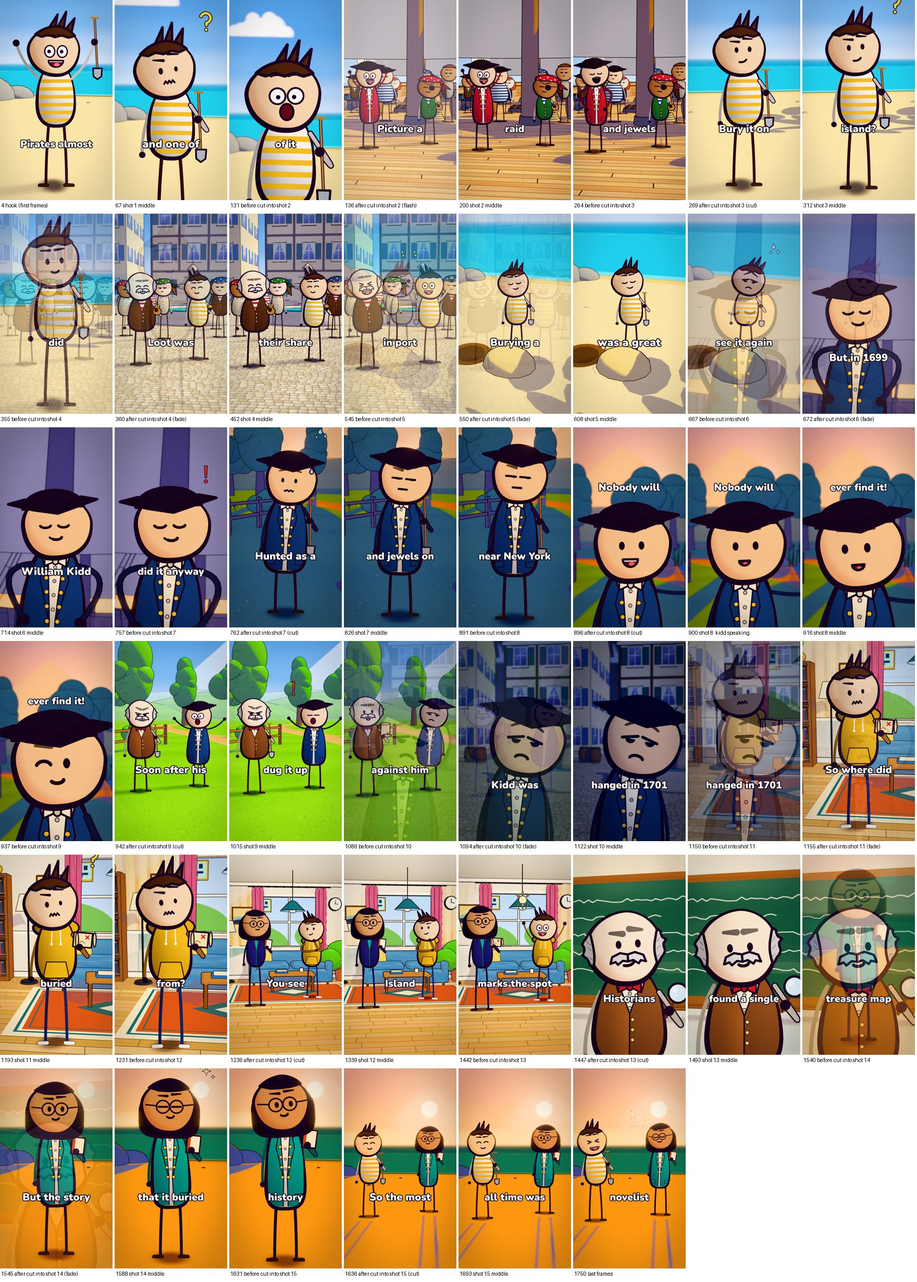
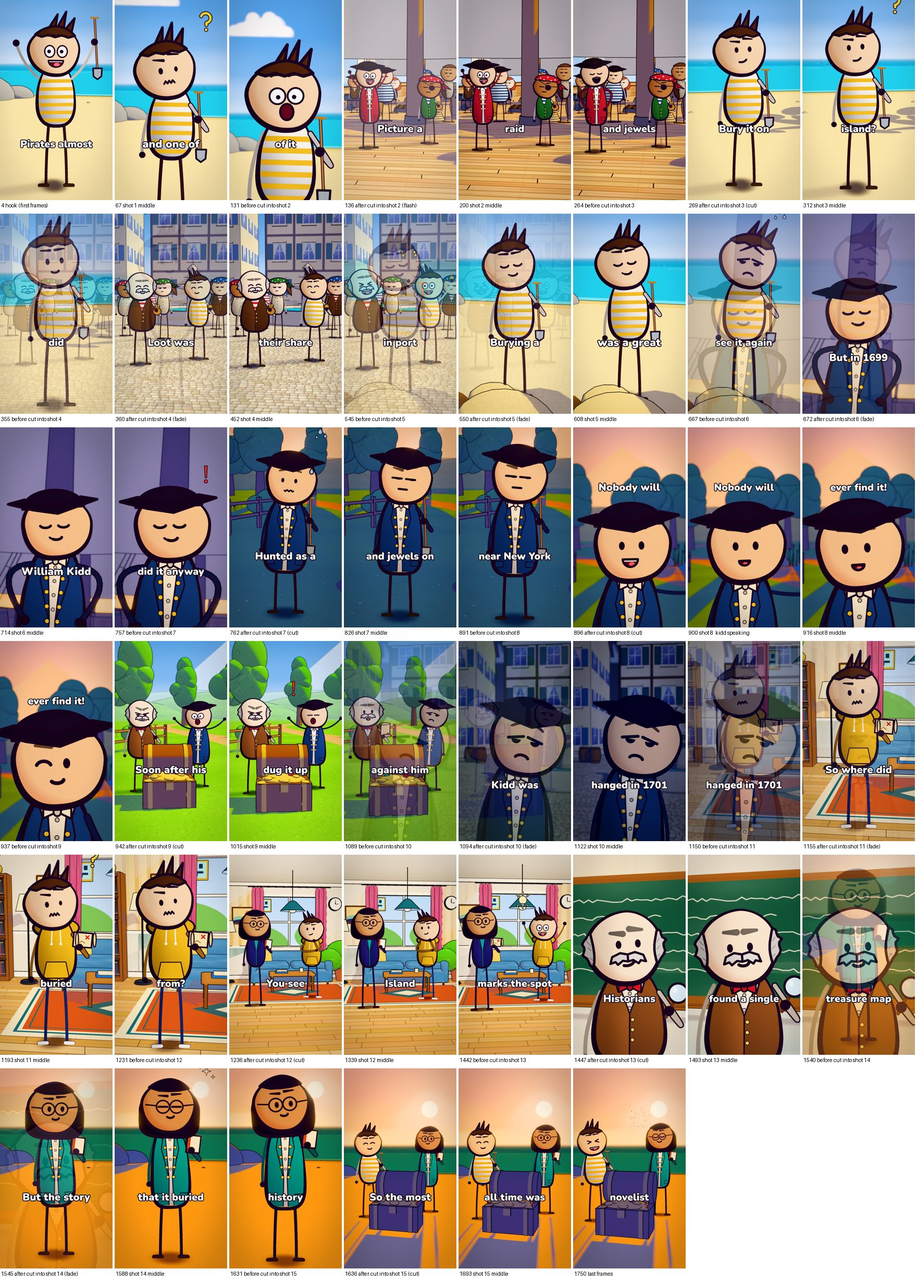
Production status: pirate-democracy published (run 12); buried-treasure review sheet
Claude-Session: https://claude.ai/code/session_01484eGDHiQxzfJwkdTsH3cA

diff --git a/productions/pirate-democracy/final/qa.md b/productions/pirate-democracy/final/qa.md
@@ -1,0 +1,22 @@
+# Video quality check: PASSED ✅
+
+File: `Short-pirate-democracy.mp4`
+
+| Check | Result | Details |
+|---|---|---|
+| video codec is H.264 | ✅ | h264 |
+| resolution | ✅ | 1080x1920 (expected 1080x1920) |
+| frame rate | ✅ | 30 fps (expected 30) |
+| frame count | ✅ | 1834 frames (expected 1834) = 61.133 s |
+| no duplicated frames (chunk seams) | ✅ | none |
+| audio track present | ✅ | aac 48000 Hz 2 ch |
+| audio is not silent | ✅ | -14.1 LUFS integrated |
+| audio starts at 0 | ✅ | 0.000 s |
+| audio length matches picture (sync) | ✅ | audio 61.133 s vs picture 61.133 s (diff -0.000 s) |
+
+| Measurement | Value |
+|---|---|
+| loudness | -14.1 LUFS integrated, true peak -1.9 dBFS (YouTube normalises to about -14 LUFS) |
+| black spans ≥ 0.1 s | none |
+| frozen spans ≥ 0.5 s | none |
+| file size | 30.4 MB |
